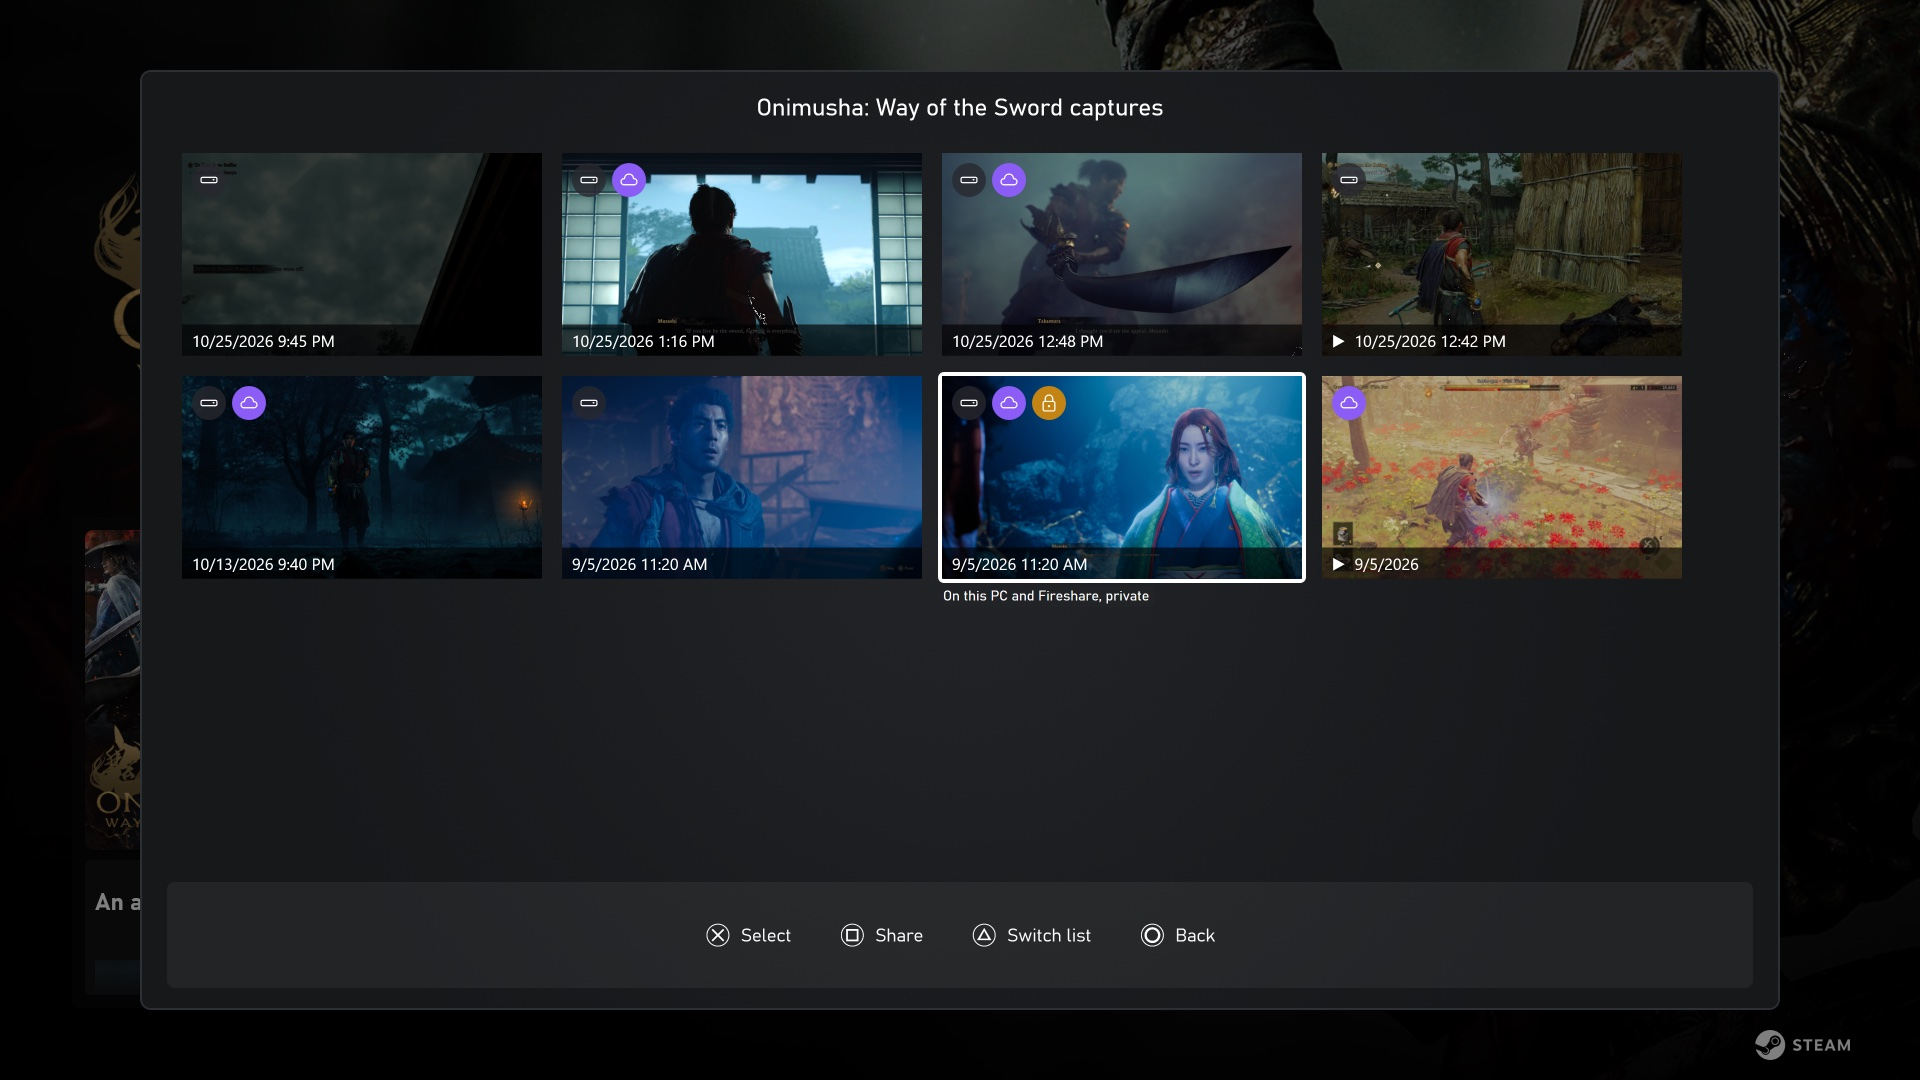
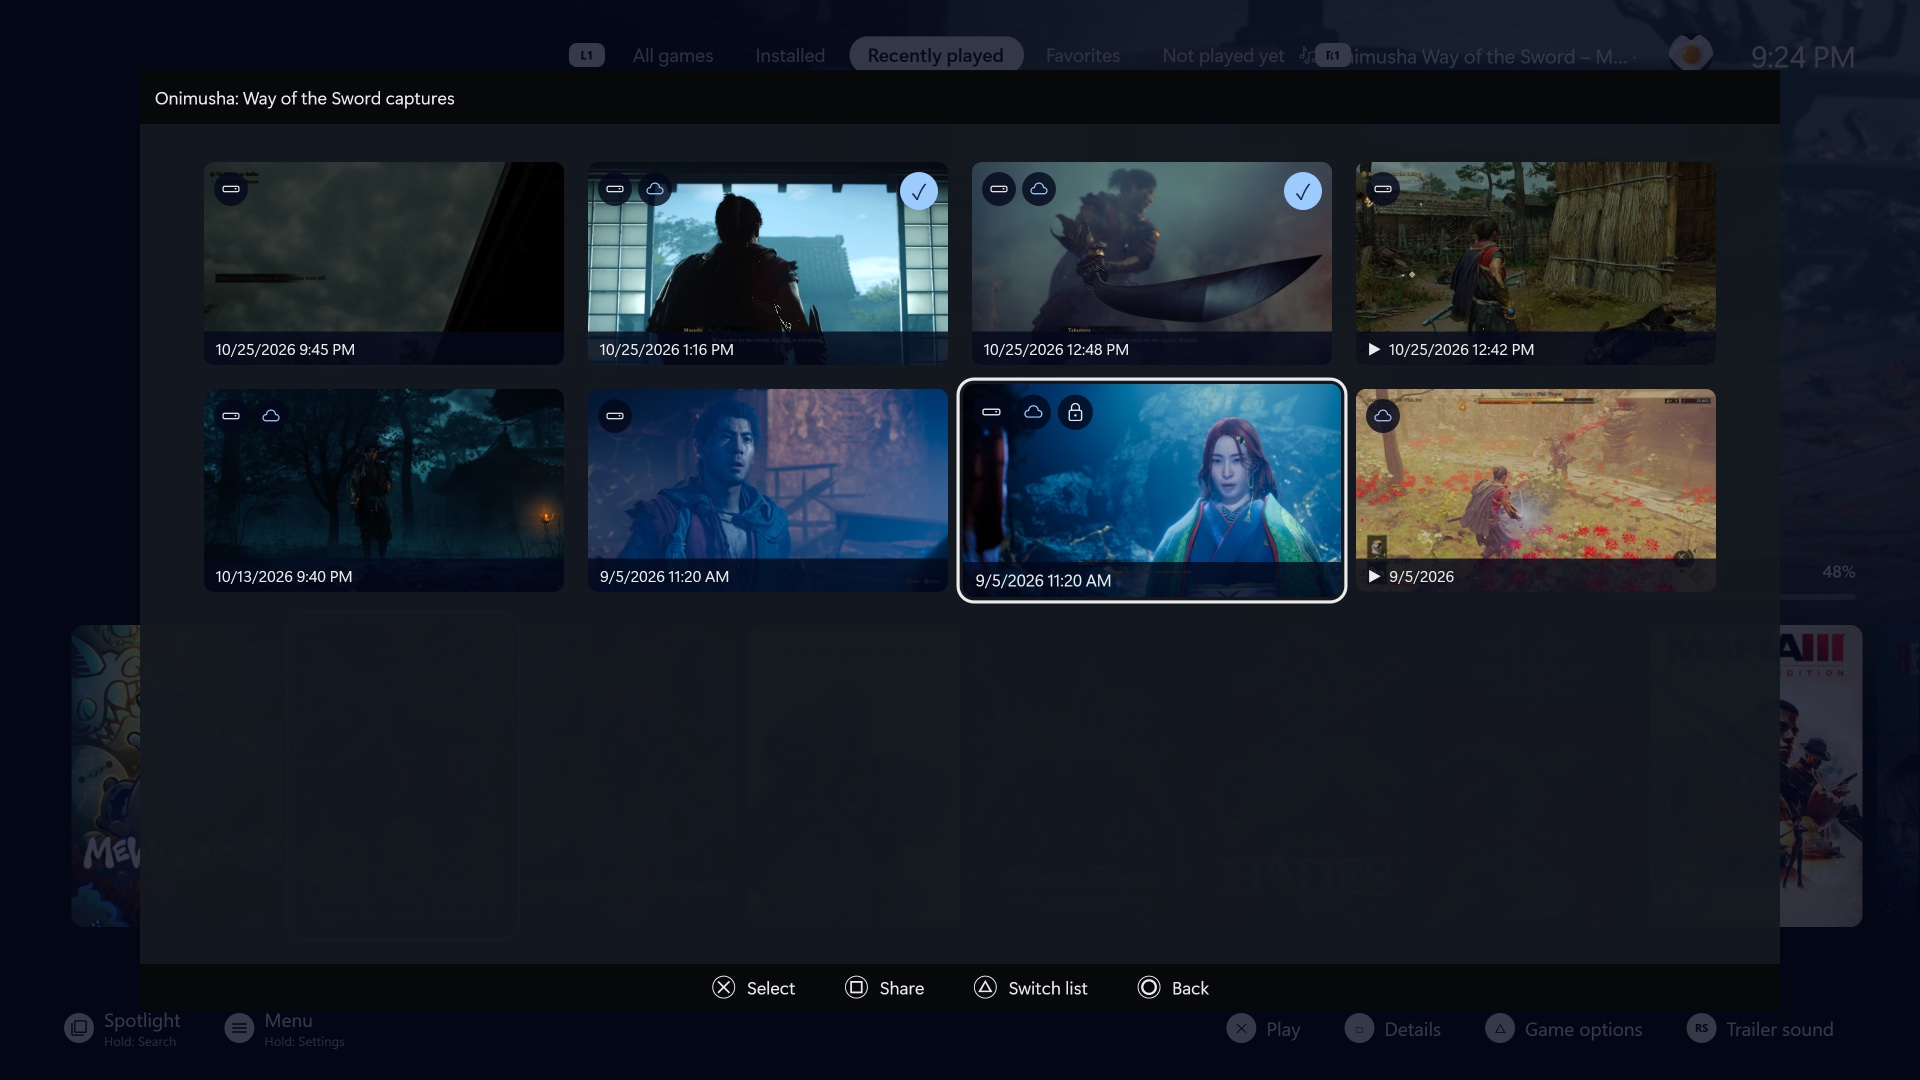
Refresh the README screenshot; no tooltips in fullscreen, refocus on activation
Tooltips were still created for local tiles and popped up under the
focused one. Reactivating the window now puts focus back on a tile.

diff --git a/src/CapturePicker.cs b/src/CapturePicker.cs
@@ -51,6 +51,7 @@ namespace FireshareShare
             }
 
             var fullscreen = api.ApplicationInfo.Mode == ApplicationMode.Fullscreen;
+            tooltips = !fullscreen;
             // ScreenshotsVisualizer's index knows the user's per-game folders and overrides; the filename guess is the fallback.
             var gameFiles = game == null ? new List<string>() : ScreenshotsVisualizerIndex.Files(api, game.Id) ?? Find(folder, Prefix(gameName));
             var owners = ScreenshotsVisualizerIndex.Owners(api);
@@ -145,8 +146,6 @@ namespace FireshareShare
                         window.Dispatcher.Invoke(() =>
                         {
                             tile = Tile(capture);
-                            // WPF shows tooltips on keyboard focus, which a controller always has
-                            ToolTipService.SetIsEnabled(tile, !fullscreen);
                             SetBadge(tile, Where.Remote, item.Private);
                             // Newest first, matching the local order.
                             var at = list.Items.Cast<ListBoxItem>().TakeWhile(t => ((Capture)t.Tag).Date >= capture.Date).Count();
@@ -184,6 +183,11 @@ namespace FireshareShare
             if (game != null) hints.Add(new Hint("ButtonPromptY", "Switch list", SwitchList));
             hints.Add(new Hint("ButtonPromptB", "Back", () => window.Close()));
             window = DialogShell.Create(api, "Share to Fireshare", heading, list, DialogShell.Footer(api, hints.ToArray()), new Size(1640, 940), new Size(1240, 780));
+            // Activating the window later (Alt+Tab, another app on top) leaves no tile focused.
+            window.Activated += (s, e) =>
+            {
+                if (!(Keyboard.FocusedElement is ListBoxItem) && list.Items.Count > 0) ((ListBoxItem)list.Items[0]).Focus();
+            };
 
             window.AddHandler(UIElement.KeyDownEvent, new KeyEventHandler((s, e) =>
             {
@@ -257,6 +261,9 @@ namespace FireshareShare
         static readonly FontFamily IconFont = new FontFamily("Segoe Fluent Icons, Segoe MDL2 Assets");
         const string DriveGlyph = "\uEDA2", CloudGlyph = "\uE753", LockGlyph = "\uE72E";
 
+        // WPF shows tooltips on keyboard focus, which a controller always has.
+        static bool tooltips;
+
         static void SetBadge(ListBoxItem tile, Where where, bool isPrivate)
         {
             var chips = (StackPanel)Parts(tile).Children[3];
@@ -264,7 +271,7 @@ namespace FireshareShare
             if (where != Where.Remote) chips.Children.Add(Chip(DriveGlyph, "TextBrush"));
             if (where != Where.Local) chips.Children.Add(Chip(CloudGlyph, "GlyphBrush"));
             if (isPrivate) chips.Children.Add(Chip(LockGlyph, "TextBrush"));
-            tile.ToolTip = (where == Where.Local ? "On this PC" : where == Where.Both ? "On this PC and Fireshare" : "Only on Fireshare")
+            if (tooltips) tile.ToolTip = (where == Where.Local ? "On this PC" : where == Where.Both ? "On this PC and Fireshare" : "Only on Fireshare")
                 + (isPrivate ? ", private" : "");
         }
 
